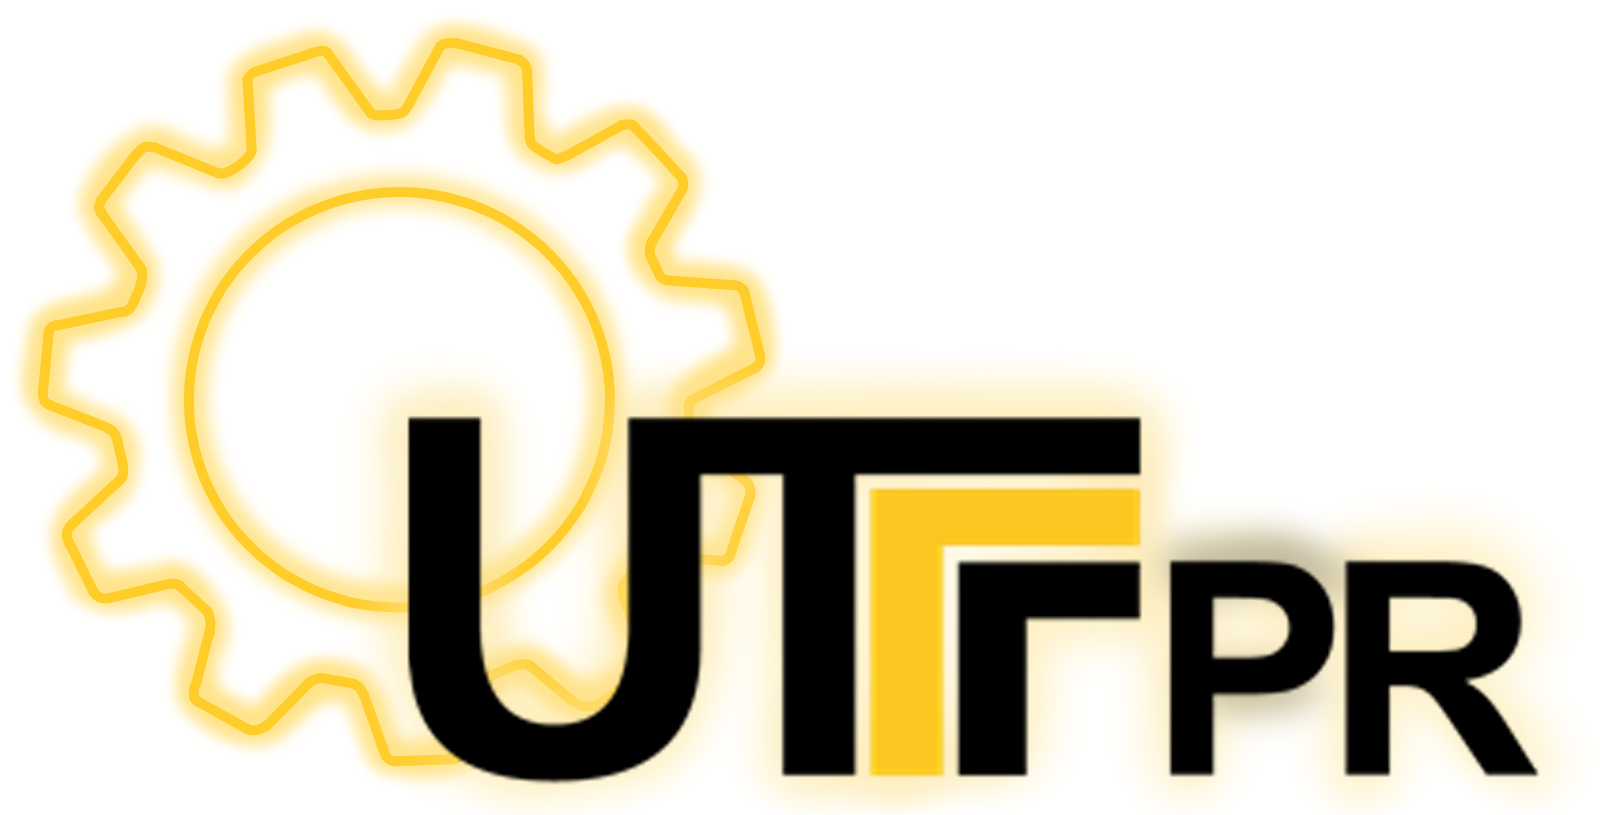
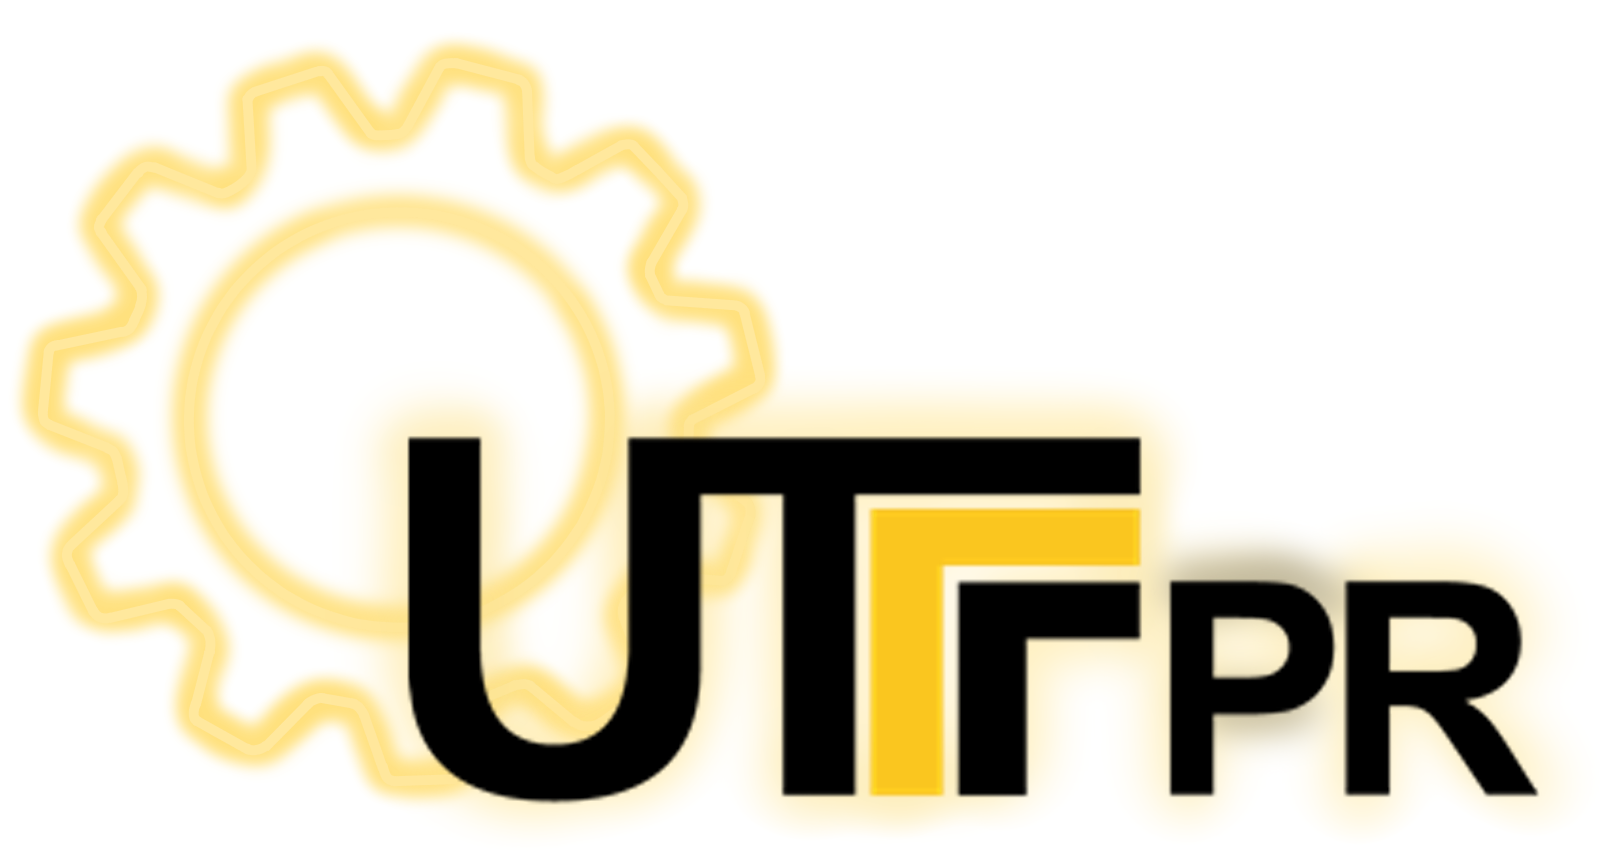
initial

diff --git a/index.html b/index.html
@@ -7,15 +7,17 @@
   <link rel="stylesheet" href="css/cursos.css">
 </head>
 <body>
-  <header>
-    <img src="imgs/utf.png" width="20%" id="logo">
+  <header >
+    <div id="logo">
+    <img src="imgs/utf.png" width="100%">
+  </div>
 
     <div id="links">
       <a href="index.html" class="btn"> Cursos </a>
-      <a href="curi.html" class="btn"> Curiosidades </a>
+      <a href="#" class="btn"> Curiosidades </a>
       <a href="galeria.html" class="btn"> Galeria </a>
-      <a href="sobre.html" class = "btn"> Sobre </a>
-      <a href="mais.html" class="btn"> Conteúdo externo </a>
+      <a href="#" class = "btn"> Sobre </a>
+      <a href="#" class="btn"> Links </a><br><br>
     </div>
     <hr>
   </header>
@@ -28,6 +30,7 @@
 O profissional terá o registro de sua profissão junto aos Conselhos Federal e Regional de Engenharia, Arquitetura e Agronomia como Engenheiro Bioquímico ou no Conselho Regional de Química. As atribuições do profissional, atividades, competências e caracterização do âmbito de atuação estão embasadas na legislação.
 </p>
 </div>
+<img src="imgs/ebb.PNG" class="dicones" width="36%">
 
     <div class="dir">
         <h2> Ciência da Computação </h2>
@@ -74,6 +77,7 @@ Os egressos são capacitados a absorver e a desenvolver novas tecnologias e esti
 O engenheiro químico depara-se com um mercado de trabalho promissor pela variedade de campos de atuação e pela habilitação para o exercício profissional em diferentes setores industriais e nas áreas administrativa e comercial. Além disso, pode atuar como engenheiro de produto, processo, pesquisa e desenvolvimento, em instituições de pesquisa, em consultorias e no magistério superior.
 </p>
 </div>
+<img src="imgs/eq.PNG" class="eicones" width="33%">
 
 <div class="esq">
   <h2> Licenciatura em Ciências Biológicas </h2>
@@ -109,3 +113,5 @@ O curso objetiva formar o profissional especializado que irá desenvolver, impla
 Durante o curso, o aluno aprenderá a fazer levantamento de custos inerentes à execução de serviços de fabricação; efetuar o controle de qualidade; conduzir trabalhos técnicos; efetuar instalação, montagens e reparos; operar e cuidar da manutenção de equipamentos; executar desenhos técnicos; fiscalizar obras e serviços técnicos e produções técnico-específicas.
 </p>
 </div>
+<br><br>
+<p font-size:"99%"> * Todos os textos foram retirados do <a href="http://www.utfpr.edu.br/cursos/graduacao#b_start=0&c5=ponta+grossa"> site oficial da UTFPR </a>

diff --git a/css/style.css b/css/style.css
@@ -3,27 +3,32 @@ body {
   background-image: black;
   background-repeat: repeat-x;
   font-family: monospace;
+  margin:10%;
+  margin-top: 2%;
+  }
+  p{
+    color: white;
   }
 hr {
   color: #ffd924;
-  width: 65%;
+
     box-shadow: 0 0 5px #ffd924,
                 0 0 25px #ffd924,
                 0 0 50px #ffd924,
                 0 0 200px #ffd924;
 }
-
-img {
-  display: block;
-  margin-left: auto;
-  margin-right: auto;
+#logo {
+  display: inline-block;
+  width: 350px;
 }
 
 #links{
-  margin:auto;
-  text-align: center;
-  margin-top: 2%;
-  margin-bottom: 2%;
+  display: inline-block;
+  width:65%;
+  text-align: right;
+  margin-bottom: 1%;
+  font-family: monospace;
+  font-size: 140%;
 }
 .btn{
   font-weight: lighter;

diff --git a/css/cursos.css b/css/cursos.css
@@ -1,3 +1,6 @@
+#conteudo{
+  font-size: 125%;
+}
 h2{
   color: #fff120;
 }
@@ -5,16 +8,25 @@ p {
   text-align: justify;
 }
 .esq {
-  margin-left: 18%;
-  margin-right: 42%;
+  display: inline-block;
+  width: 60%;
   margin-top: 3%;
 }
 .dir{
-  margin-left: 42%;
-  margin-right: 18%;
+  width: 60%;
+  float: right;
   margin-top: 3%;
 }
 .infos {
   color: white;
-  font-family: sans-serif;
+}
+.dicones {
+  float: right;
+  display: inline-block;
+  margin-top: 5%;
+}
+.eicones {
+  float: left;
+  display: inline-block;
+  margin-top: 5%;
 }

diff --git a/galeria.html b/galeria.html
@@ -11,10 +11,10 @@
 
     <div id="links">
       <a href="index.html" class="btn"> Cursos </a>
-      <a href="curi.html" class="btn"> Curiosidades </a>
+      <a href="#" class="btn"> Curiosidades </a>
       <a href="galeria.html" class="btn"> Galeria </a>
-      <a href="sobre.html" class = "btn"> Sobre </a>
-      <a href="mais.html" class="btn"> Conteúdo externo </a>
+      <a href="#" class = "btn"> Sobre </a>
+      <a href="#" class="btn"> Links </a><br><br>
     </div>
     <hr>
   </header>
